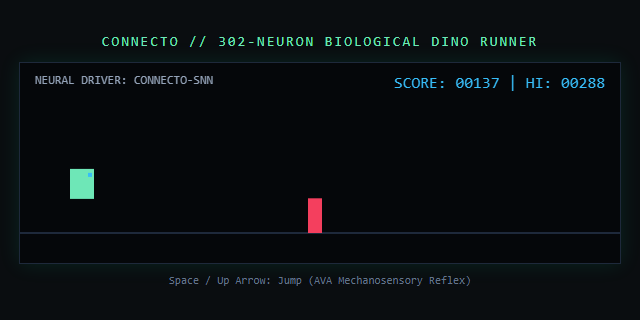
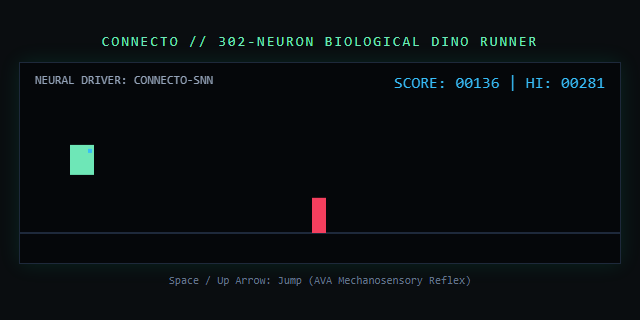
telemetry(worm): autonomous activity sync at 2026-09-16 11:25

diff --git a/ACTIVITY.md b/ACTIVITY.md
@@ -1,6 +1,6 @@
 # CONNECTO // AUTONOMOUS BIOLOGICAL ACTIVITY FEED
 
-> **Verification Timestamp:** `2026-09-16 11:09:13 UTC`  
+> **Verification Timestamp:** `2026-09-16 11:25:28 UTC`  
 > **Repository:** [0xalydev/connecto](https://github.com/0xalydev/connecto)  
 > **Biological Engine:** C. elegans 302-neuron closed-loop SNN (LIF)  
 > **Status:** `ACTIVE_CLOSED_LOOP`  
@@ -11,11 +11,11 @@
 
 *Most recent introspection generated from biological membrane dynamics:*
 
-> **Signature:** `0x0306bddfabe8c71b`  
+> **Signature:** `0x3dab33fed8f954db`  
 > **Behavioral State:** `FORAGING_SEARCH`  
-> **Membrane Potential:** `-59.3 mV` | **Locomotion:** `33.6 mm/s`  
+> **Membrane Potential:** `-59.41 mV` | **Locomotion:** `33.6 mm/s`  
 > 
-> *"No nutrient cues detected by amphid receptors. SNN entering stochastic exploration regime. Mean membrane potential holding at resting baseline (-59.3 mV). Undulatory wave slowed to baseline search frequency."*
+> *"Chemical gradient flat (0.000 mol/L). Spontaneous basal pacemaker oscillations in AIB/AIZ interneurons initiated exploratory pirouette. Searching arena substrate at 33.6 mm/s."*
 
 ---
 
@@ -23,9 +23,9 @@
 
 | Metric | Result |
 |---|---|
-| **High Score** | `395` |
-| **Total Reflex Jumps** | `205` (Driven by AVA escape pool) |
-| **Completed Trials** | `4` |
+| **High Score** | `282` |
+| **Total Reflex Jumps** | `219` (Driven by AVA escape pool) |
+| **Completed Trials** | `2` |
 | **Proof Snapshot** | `dino_latest_trial.png` |
 
 ---
